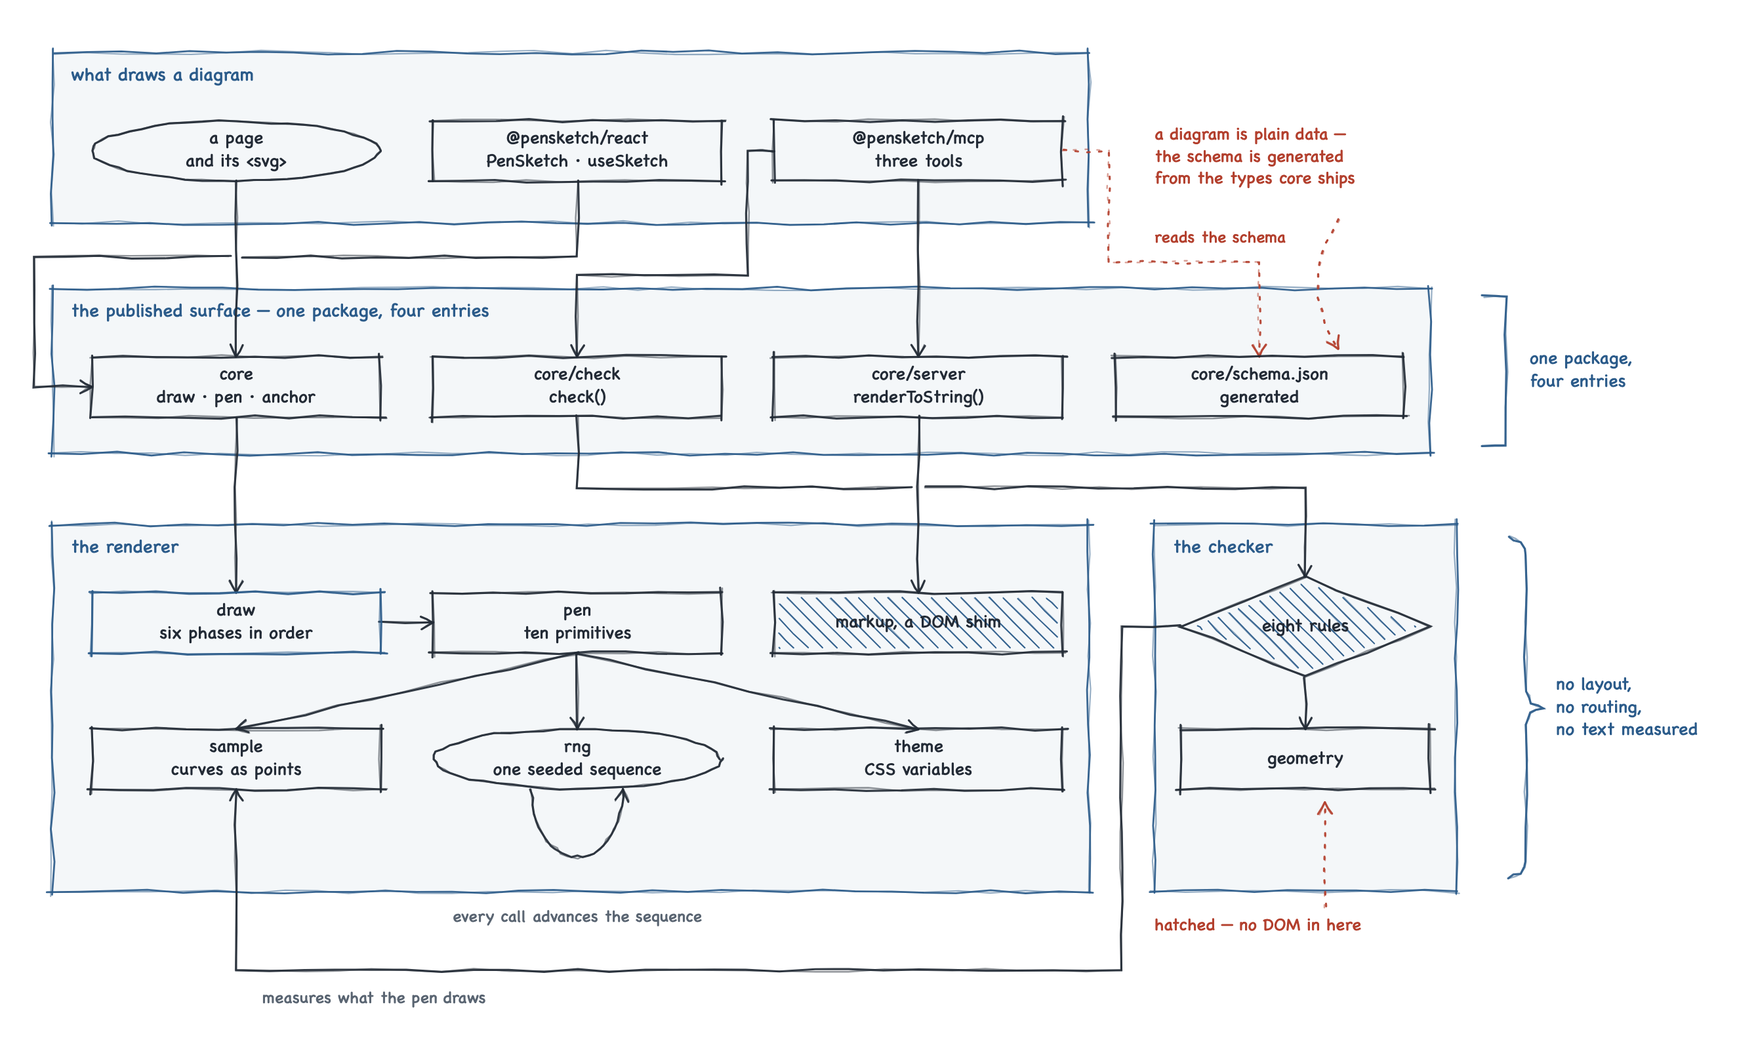
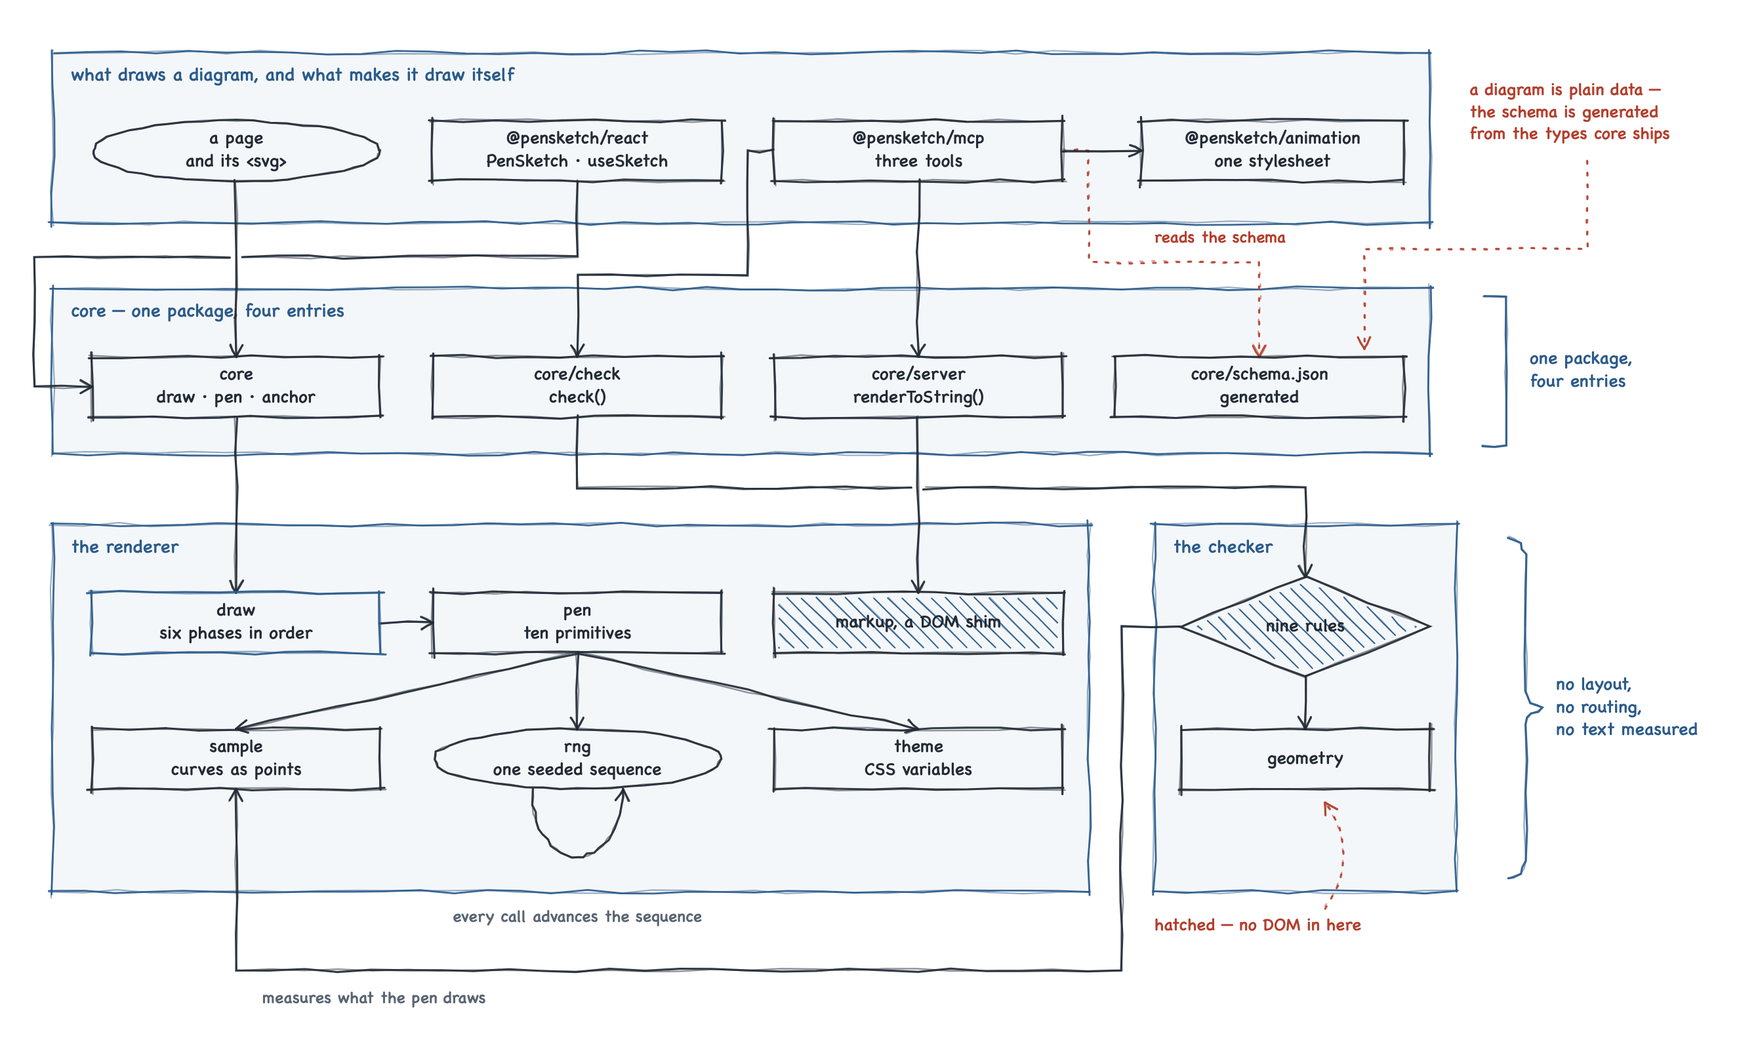
docs: the showcase draws the fourth package, and two counts that had gone stale
`examples/showcase/index.html` predated `@pensketch/animation` and is served to
agents as `pensketch://example/showcase`, so every agent reading it was taught a
three-package architecture. It now carries the package, in the top band beside
the three ways in, with `g1` widened to `g2`'s span and both bands retitled.

One edge, and it is the only one that runs sideways: `@pensketch/mcp` really
does import the package (packages/mcp/src/tools.ts:2). It forks off the schema
arrow rather than leaving by mcp's free top side, because mcp's bottom anchor
already drops straight down at x=700 and a stub leaving the top at the same x
read as one line run through the box. `edge-overlap` reports the fork at 24
against a threshold of 40 - measured by rebuilding with the threshold at 1, not
computed. Nothing descends from `anim` because it imports nothing, core
included, and react reaches it with no arrow because `PenSketch` takes
`animate` as a function.

The note that used to sit where the package now is takes corners instead of a
bow. Drawn first with `bow: -16` it passed `npm run diagrams` and measured
1.29px from a group's corner: a bow displaces along the perpendicular, which
also moves where the curve crosses, so the two compound - the chord crossed the
50px gutter dead centre and the arc did not. No rule walks a note's pointer, so
only a render says so. The bow moved to the other pointer, which has 80px of
[…]

diff --git a/examples/showcase/index.html b/examples/showcase/index.html
@@ -3,11 +3,12 @@
   pensketch - pensketch's own architecture, drawn by pensketch.
 
   A logical architecture in the usual notation: layers as groups, components
-  as boxes, dependencies as arrows. What makes it the showcase is that it
-  reaches for nearly the whole data model in one picture - all three drawn
-  shapes, `accent` and `hatch`, straight connectors, orthogonal ones, a
-  self-transition, both kinds of brace, and notes whose pointers bow - without
-  once reaching for `raw`.
+  as boxes, dependencies as arrows - four published packages, one of which
+  carries four entry points. What makes it the showcase is that it reaches for
+  nearly the whole data model in one picture - all three drawn shapes, `accent`
+  and `hatch`, straight connectors, orthogonal ones, a self-transition, both
+  kinds of brace, and note pointers that bow and take corners - without once
+  reaching for `raw`.
 
   That last part is the point. `raw` is the escape hatch for what the data
   model has no word for, and this diagram needed no escape: it is plain data
@@ -68,7 +69,7 @@ svg text {
 </head>
 <body>
 <svg id="showcase" viewBox="0 0 1340 800" role="img"
-     aria-label="The architecture of pensketch: what draws a diagram, the published surface, the renderer and the checker"></svg>
+     aria-label="The architecture of pensketch: what draws a diagram and what makes it draw itself, core's four entry points, the renderer and the checker"></svg>
 <script type="module">
   import { draw } from '../../packages/core/dist/index.js'; // a bare specifier needs a bundler, and this page has none
 
@@ -90,16 +91,20 @@ svg text {
       // are drawn behind everything and read as bands rather than as boxes
       // around boxes. Their titles need about 30px of clear space at the top,
       // which is why every row of nodes starts 52px into its band.
-      { id: 'g1',     shape: 'group',   x: 40,  y: 40,  w: 790,  h: 130, lines: ['what draws a diagram'] },
-      { id: 'g2',     shape: 'group',   x: 40,  y: 220, w: 1050, h: 126, lines: ['the published surface — one package, four entries'] },
+      { id: 'g1',     shape: 'group',   x: 40,  y: 40,  w: 1050, h: 130, lines: ['what draws a diagram, and what makes it draw itself'] },
+      { id: 'g2',     shape: 'group',   x: 40,  y: 220, w: 1050, h: 126, lines: ['core — one package, four entries'] },
       { id: 'g3',     shape: 'group',   x: 40,  y: 400, w: 790,  h: 280, lines: ['the renderer'] },
       { id: 'g4',     shape: 'group',   x: 880, y: 400, w: 230,  h: 280, lines: ['the checker'] },
 
-      // Three ways in. The page is a pill because it is not part of the
-      // package - it is whatever HTML you already have.
+      // Three ways in, and a fourth package that is not one: animation adds a
+      // stylesheet to what `draw` already left behind, so it stands beside
+      // them rather than under them - and nothing in the band below it is
+      // drawn on. The page is a pill because it is not part of the package -
+      // it is whatever HTML you already have.
       { id: 'page',   shape: 'pill',    x: 70,  y: 92,  w: 220, h: 46, lines: ['a page', 'and its <svg>'] },
       { id: 'react',  shape: 'box',     x: 330, y: 92,  w: 220, h: 46, lines: ['@pensketch/react', 'PenSketch · useSketch'] },
       { id: 'mcp',    shape: 'box',     x: 590, y: 92,  w: 220, h: 46, lines: ['@pensketch/mcp', 'three tools'] },
+      { id: 'anim',   shape: 'box',     x: 870, y: 92,  w: 200, h: 46, lines: ['@pensketch/animation', 'one stylesheet'] },
 
       // One package, four entry points, each with its own byte budget. A
       // consumer who never imports the checker ships none of it.
@@ -119,7 +124,7 @@ svg text {
       // The checker. Hatched on a diamond and on a box in the same picture,
       // which is the shape of the feature: shading follows the outline it is
       // drawn inside, so a diamond keeps its corners bare.
-      { id: 'rules',  shape: 'diamond', x: 900, y: 440, w: 190, h: 76, lines: ['eight rules'], hatch: true },
+      { id: 'rules',  shape: 'diamond', x: 900, y: 440, w: 190, h: 76, lines: ['nine rules'], hatch: true },
       { id: 'geom',   shape: 'box',     x: 900, y: 556, w: 190, h: 46, lines: ['geometry'] },
     ],
     edges: [
@@ -129,9 +134,11 @@ svg text {
       // the data, and no rule reports it: `edge-overlap` asks that *every*
       // point of each path lie near the other, which a pair that shares a
       // trunk and then diverges never satisfies. So it is placed rather than
-      // checked. `mcp` reaches three things and leaves by three different
-      // sides; `react` arrives at core's left rather than descending the column
-      // `page` already occupies. Measured: no two of these share any length.
+      // checked. `mcp` reaches four things and leaves by three sides; `react`
+      // arrives at core's left rather than descending the column `page`
+      // already occupies. Measured: the only length any two of them share is
+      // the 20px fork out of mcp's right side, and that one is drawn on
+      // purpose - see below.
       //
       // `hop` on the first: `react` crosses `page`'s drop at (180, 196), and
       // the straight line is the one that stays whole.
@@ -139,8 +146,26 @@ svg text {
       { from: ['react', 'b'], to: ['root', 'l'],   via: [[440, 196], [26, 196], [26, 295]] },
       { from: ['mcp', 'l'],   to: ['check', 't'],  via: [[570, 115], [570, 210], [440, 210]] },
       { from: ['mcp', 'b'],   to: ['server', 't'] },
-      { from: ['mcp', 'r'],   to: ['schema', 't'], via: [[845, 115], [845, 200], [960, 200]],
+      { from: ['mcp', 'r'],   to: ['schema', 't'], via: [[830, 115], [830, 200], [960, 200]],
         dotted: true, label: 'reads the schema', lx: 880, ly: 182, anchor: 'start' },
+
+      // A dependency that runs sideways rather than down, because the package
+      // it reaches is a sibling rather than something underneath:
+      // `render_diagram` takes an `animate` option, and the tool imports the
+      // package to serve it.
+      //
+      // It forks off the schema arrow rather than leaving by mcp's own free
+      // side. A top anchor was drawn first and was worse: mcp's bottom anchor
+      // already drops straight down at x=700, so a stub leaving the top at the
+      // same x read as one line run through the box. Twenty px of shared fork
+      // is the idiom this repository already uses for a decision, and
+      // `edge-overlap` reports the pair at 24 against a threshold of 40.
+      //
+      // React reaches the same package and no arrow says so, because there is
+      // nothing to draw: `PenSketch` takes `animate` as a function, and the
+      // react package never names it. Nothing descends from `anim` for the
+      // same kind of reason - it imports nothing, core included.
+      { from: ['mcp', 'r'],   to: ['anim', 'l'] },
 
       { from: ['root', 'b'],   to: ['draw', 't'] },
       { from: ['check', 'b'],  to: ['rules', 't'], via: [[440, 372], [995, 372]] },
@@ -192,14 +217,36 @@ svg text {
         lines: ['one package,', 'four entries'], lx: 1166, ly: 283 },
     ],
     notes: [
-      // A pointer with a bow: the arrow is drawn as an arc rather than a
-      // straight run, which is what a hand reaching for something looks like.
-      { x: 880, y: 120, anchor: 'start',
+      // This note reaches `schema` from the corner, because the row it used to
+      // sit in is a package now. A pointer takes corners the way an edge does,
+      // and this one has to: it must pass the right edge of both bands, and
+      // the only clear water is the 50px gutter between them. Routed down the
+      // margin and along y=190 it crosses that edge 20px below one group's
+      // corner and 30 above the other's - arithmetic, which an arc through the
+      // same gap is not. A bow of 16 was drawn first and measured at 1.3px
+      // from the lower corner: the perpendicular a bow displaces along also
+      // moves the point where the curve crosses, so the two compound and the
+      // arc left the gutter the chord sat in the middle of. Swept, the family
+      // is worse than it looks - every negative bow clears the lower corner by
+      // under 10px, and the positive half that does clear both (+10 is 17.5
+      // and 23.7) bows the arrow away from the box it points at.
+      //
+      // 190 rather than the middle of the gutter, because the schema arrow
+      // already runs a dotted horizontal at y=200. Five px apart the two read
+      // as one line broken in the middle - no rule compares a note's pointer
+      // with an edge, so only a render says so.
+      { x: 1120, y: 86, anchor: 'start',
         lines: ['a diagram is plain data —', 'the schema is generated', 'from the types core ships'],
-        arrowFrom: [1020, 168], arrowTo: [1020, 266], bow: 16 },
+        arrowFrom: [1210, 122], via: [[1210, 190], [1040, 190]], arrowTo: [1040, 266] },
+      // The bow lives here instead, where an 80px pointer - 68 of them inside
+      // the checker, the rest below its border - swings into an empty corner
+      // of the group. Measured at 14: 10px off `geom`, 127 off the nearest
+      // brace. Positive is to the right of travel and this one travels upward,
+      // so the arc swings out to the right - which is what a hand reaching for
+      // something looks like.
       { x: 880, y: 706, anchor: 'start',
         lines: ['hatched — no DOM in here'],
-        arrowFrom: [1010, 692], arrowTo: [1010, 612] },
+        arrowFrom: [1010, 692], arrowTo: [1010, 612], bow: 14 },
     ],
   }, { seed: 7 });
 </script>

diff --git a/packages/mcp/src/resources.generated.ts b/packages/mcp/src/resources.generated.ts
@@ -755,10 +755,10 @@ export const EXAMPLES = {
           "shape": "group",
           "x": 40,
           "y": 40,
-          "w": 790,
+          "w": 1050,
           "h": 130,
           "lines": [
-            "what draws a diagram"
+            "what draws a diagram, and what makes it draw itself"
           ]
         },
         {
@@ -769,7 +769,7 @@ export const EXAMPLES = {
           "w": 1050,
           "h": 126,
           "lines": [
-            "the published surface — one package, four entries"
+            "core — one package, four entries"
           ]
         },
         {
@@ -828,6 +828,18 @@ export const EXAMPLES = {
           "lines": [
             "@pensketch/mcp",
             "three tools"
+          ]
+        },
+        {
+          "id": "anim",
+          "shape": "box",
+          "x": 870,
+          "y": 92,
+          "w": 200,
+          "h": 46,
+          "lines": [
+            "@pensketch/animation",
+            "one stylesheet"
           ]
         },
         {
@@ -959,7 +971,7 @@ export const EXAMPLES = {
           "w": 190,
           "h": 76,
           "lines": [
-            "eight rules"
+            "nine rules"
           ],
           "hatch": true
         },
@@ -1056,11 +1068,11 @@ export const EXAMPLES = {
           ],
           "via": [
             [
-              845,
+              830,
               115
             ],
             [
-              845,
+              830,
               200
             ],
             [
@@ -1073,6 +1085,16 @@ export const EXAMPLES = {
           "lx": 880,
           "ly": 182,
           "anchor": "start"
+        },
+        {
+          "from": [
+            "mcp",
+            "r"
+          ],
+          "to": [
+            "anim",
+            "l"
+          ]
         },
         {
           "from": [
@@ -1250,8 +1272,8 @@ export const EXAMPLES = {
       ],
       "notes": [
         {
-          "x": 880,
-          "y": 120,
+          "x": 1120,
+          "y": 86,
           "anchor": "start",
           "lines": [
             "a diagram is plain data —",
@@ -1259,14 +1281,23 @@ export const EXAMPLES = {
             "from the types core ships"
           ],
           "arrowFrom": [
-            1020,
-            168
+            1210,
+            122
+          ],
+          "via": [
+            [
+              1210,
+              190
+            ],
+            [
+              1040,
+              190
+            ]
           ],
           "arrowTo": [
-            1020,
+            1040,
             266
-          ],
-          "bow": 16
+          ]
         },
         {
           "x": 880,
@@ -1282,7 +1313,8 @@ export const EXAMPLES = {
           "arrowTo": [
             1010,
             612
-          ]
+          ],
+          "bow": 14
         }
       ]
     }

diff --git a/packages/core/src/check.ts b/packages/core/src/check.ts
@@ -99,10 +99,14 @@ const DEFAULTS: Record<RuleId, Severity> = {
 // Calibrated at both ends against every diagram this repository ships, and
 // against the four pairs the showcase carried before its routing was fixed -
 // not chosen and then checked one way round. Below it, the longest run any
-// shipped diagram draws deliberately: `examples/react/src/incident.ts` forks
-// twice from one anchor and turns at one corner, which this reports at 24 px,
-// and its own source says so in as many words. Every other shipped run is a
-// fan-out artefact of 10 px or less. Above it, the shortest run that was a
+// shipped diagram draws deliberately, and two of them sit on it:
+// `examples/react/src/incident.ts` forks twice from one anchor and turns at
+// one corner, and the showcase forks the arrow reaching
+// `@pensketch/animation` off the one that reads the schema. Both are reported
+// at 24 px, and both sources say in as many words that the fork is deliberate.
+// Every other shipped run is a fan-out artefact of 10 px or less: 8, 8, 8, 4,
+// 4, 4 in the pipeline, and 4, 4, 4 for the showcase's own pen fan. Above it,
+// the shortest run that was a
 // real defect: the showcase's `mcp` trunk, reported at 62. Nothing anywhere in
 // this repository lands between 24 and 62, so the number separates two
 // populations rather than splitting one, and 40 sits near the middle of that

diff --git a/examples/react/src/incident.ts b/examples/react/src/incident.ts
@@ -86,10 +86,12 @@ export function incident(stage: number): Diagram {
       { from: ['mitigate', 'r'], to: ['fixed',    'l'], ...unreached(stage < 3) },
 
       // The fork. Both leave the same anchor and turn at the same corner, so
-      // the first 20px of the two is one line. `check` reports a shared run
-      // once it reaches 40px, and this is the longest one any diagram here
-      // draws on purpose - which is why the threshold sits above it. A fork is
-      // how a decision is drawn, not two connectors laid in the same place.
+      // the first 20px of the two is one line, which `check` reports at 24.
+      // It reports a shared run once it reaches 40px, and nothing in this
+      // repository draws a longer one on purpose - the showcase's fork onto
+      // `@pensketch/animation` ties it at 24 - which is why the threshold sits
+      // above both. A fork is how a decision is drawn, not two connectors laid
+      // in the same place.
       { from: ['fixed', 'r'], to: ['clear', 'l'], via: [[780, 133], [780, 63]],
         label: 'yes', lx: 766, ly: 88, anchor: 'end', ...unreached(stage < LAST) },
       { from: ['fixed', 'r'], to: ['post',  'l'], via: [[780, 133], [780, 203]],

diff --git a/README.md b/README.md
@@ -50,8 +50,10 @@ npm install @pensketch/react @pensketch/core
 
 **For motion**, `@pensketch/animation` turns a drawing into one that draws
 itself, stroke by stroke, in the order a hand would have used. It is CSS —
-nothing of it runs while the drawing is drawing — and it is a peer of nothing,
-so a page that does not want motion carries none of it:
+nothing of it runs while the drawing is drawing — and neither core nor the
+React bindings depend on it, so a page that does not want motion carries none
+of it. (`@pensketch/mcp` does depend on it: it is a server you spawn, not code
+that ships inside a page.)
 
 ```sh
 npm install @pensketch/animation @pensketch/core
@@ -61,21 +63,24 @@ npm install @pensketch/animation @pensketch/core
 
 <picture>
   <source media="(prefers-color-scheme: dark)" srcset="docs/assets/showcase-dark.png">
-  <img alt="pensketch's own architecture: three consumers above one package with four entry points, over a renderer and a checker that stand on the same geometry" src="docs/assets/showcase-light.png">
+  <img alt="pensketch's own architecture: three ways in and the package that makes a drawing draw itself, above core's four entry points, over a renderer and a checker that stand on the same geometry" src="docs/assets/showcase-light.png">
 </picture>
 
-Three ways in, one package with four entry points, and a renderer and a checker
-that stand on the same geometry — which is why `sample` sits under both. Every
-byte of that picture came out of `draw`, from a plain object, with no `raw`
-callback in it: it is the diagram at
+Three ways in — a page, the React bindings, the MCP server — and a package
+that is not a way in: `@pensketch/animation` adds a stylesheet to a drawing
+that already exists, which is why it is the only thing in that top band with
+nothing drawn under it. Below them core, one package with four entry points;
+below that a renderer and a checker that stand on the same geometry — which is
+why `sample` sits under both. Every byte of that picture came out of `draw`,
+from a plain object, with no `raw` callback in it: it is the diagram at
 [examples/showcase/](examples/showcase/), and an agent can read the same data
 back as `pensketch://example/showcase`.
 
 It is also the widest use of the data model this repository ships — all three
 drawn shapes, `accent` and `hatch`, straight connectors and orthogonal ones, a
-self-transition, both kinds of brace, notes whose pointers bow, and a break
-where two connectors cross. If you want to know what pensketch can draw before
-reading how, that is the answer.
+self-transition, both kinds of brace, note pointers that bow and take corners,
+and a break where two connectors cross. If you want to know what pensketch can
+draw before reading how, that is the answer.
 
 ## Quickstart: vanilla
 
@@ -380,7 +385,7 @@ root provides.
 | `examples/vanilla/` | **A CI pipeline.** Groups as stages, a gate diamond, three jobs fanning out of one push, a dotted edge back to the start, and a brace marking two deploys as one build promoted. | `npx serve .`, then open `/examples/vanilla/` |
 | `examples/custom-pen/` | **An order lifecycle.** States as pills, terminal states hatched, a retry that stays where it is — a self-transition sized by `out` and `span` — and a square bracket over the states the money has moved for, plus `pen()` on its own. | `npx serve .`, then open `/examples/custom-pen/` |
 | `examples/state-machine/` | **An ATM.** A decision that splits the flow, a dotted retry routed back down the left margin, a keypad loop at the default size, and a transition and its reverse bowed apart rather than drawn on one line. | `npx serve .`, then open `/examples/state-machine/` |
-| `examples/showcase/` | **pensketch's own architecture.** A layered logical architecture — consumers, the published surface, the renderer and the checker — that reaches for nearly the whole data model in one picture: all three drawn shapes, `accent` and `hatch`, orthogonal `via` routing, a self-transition, both kinds of brace, and notes whose pointers bow. No `raw` anywhere, which is why it can be served as data. | `npx serve .`, then open `/examples/showcase/` |
+| `examples/showcase/` | **pensketch's own architecture.** A layered logical architecture — what draws a diagram and what makes it draw itself, core's four entry points, the renderer and the checker — that reaches for nearly the whole data model in one picture: all three drawn shapes, `accent` and `hatch`, orthogonal `via` routing, a self-transition, both kinds of brace, and note pointers that bow and take corners. No `raw` anywhere, which is why it can be served as data. | `npx serve .`, then open `/examples/showcase/` |
 | `examples/animation/` | **Photosynthesis in five panels**, each one drawing itself as you reach it. The page holds five diagrams as data and makes two calls per panel — `draw` with `order`, then `animate` — and writes no keyframe, index or `pathLength` of its own. | `npx serve .`, then open `/examples/animation/` |
 | `examples/react/` | **An incident, stepped through.** Five stages that fork at a decision, with the accented node, the stages shaded behind it and the arrows already taken all derived from React state — and it walks itself through on arrival, until you stop it. Plus a seed control: the stage changes the data, the seed changes which drawing of it you get, and every redraw draws itself through the `animate` prop — under StrictMode, so a doubled stylesheet or a missing one would show. | `cd examples/react && npm install && npm run dev` |
 
@@ -439,7 +444,7 @@ decidable from the diagram alone. It measures the line that gets drawn: a loop
 and a bow are sampled, so a curve that swings out of the frame is reported
 where it leaves, rather than passing because both its anchors are inside.
 
-**Two rules rest on an estimate.** Text is never measured, so `check`
+**Three rules rest on an estimate.** Text is never measured, so `check`
 approximates width as `length × fontSize × 0.55`, a figure measured against
 the documented handwriting stack and deliberately wider than every real label
 in it. It over-states, so it warns early rather than missing an overflow, and
